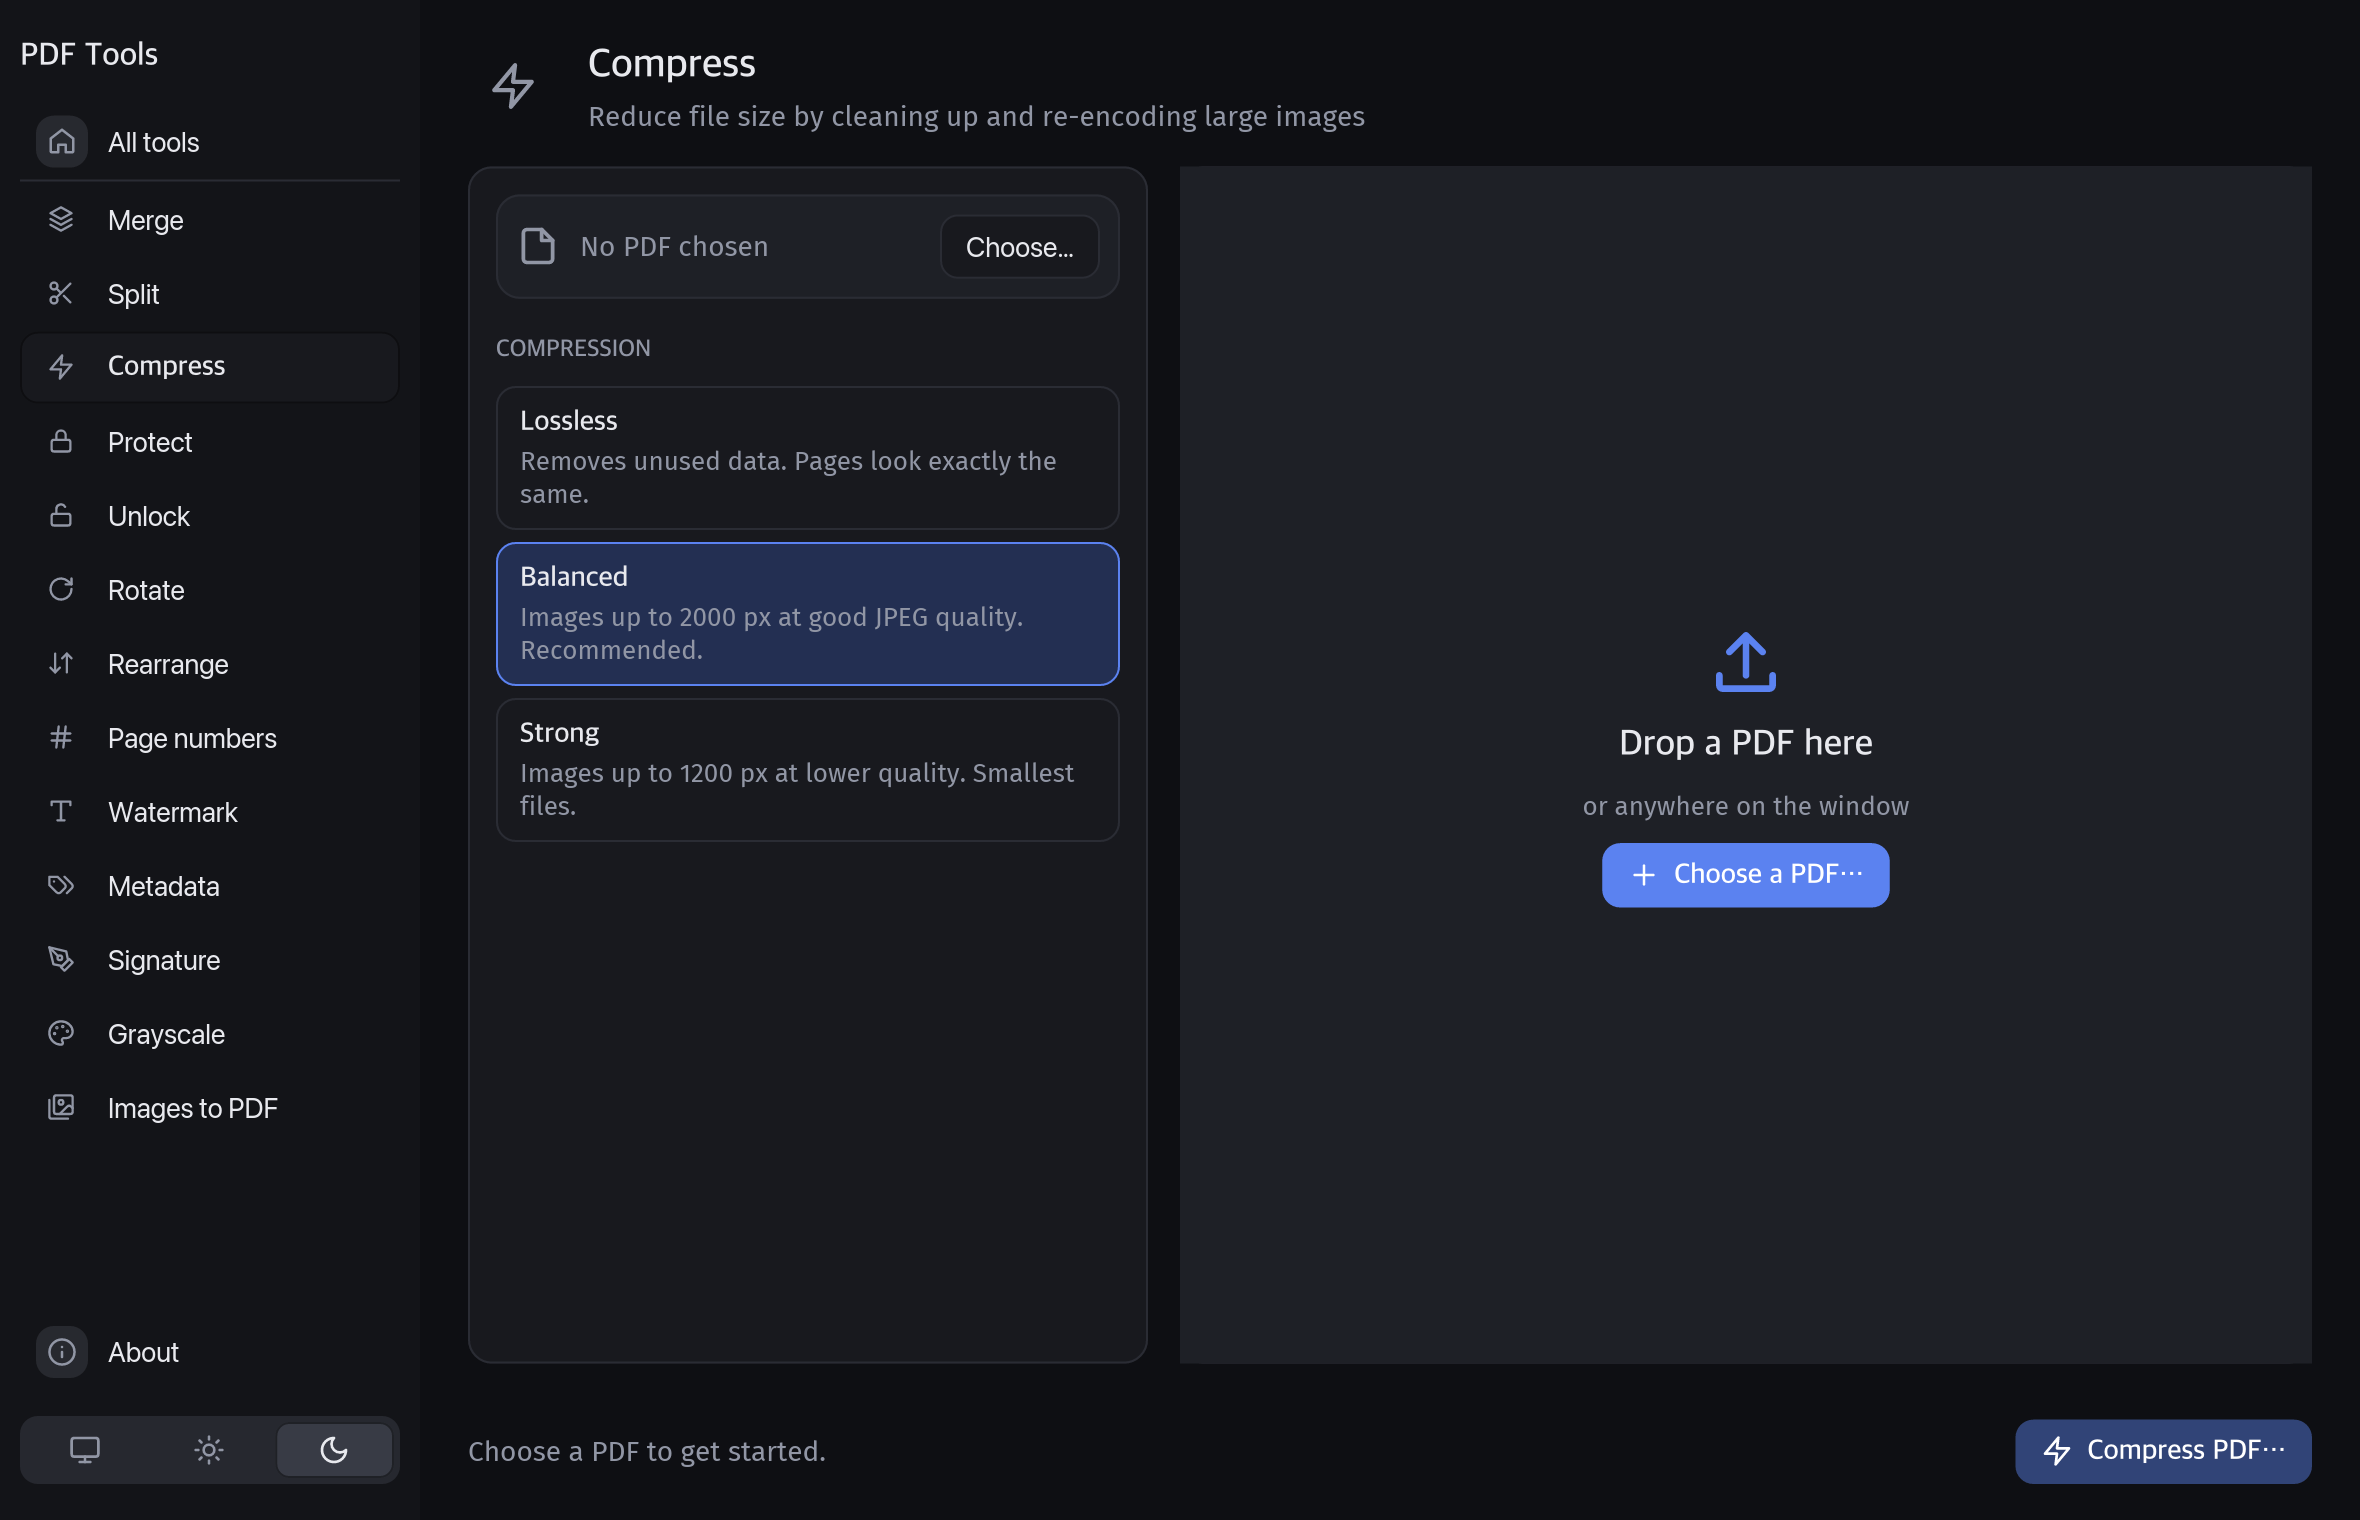
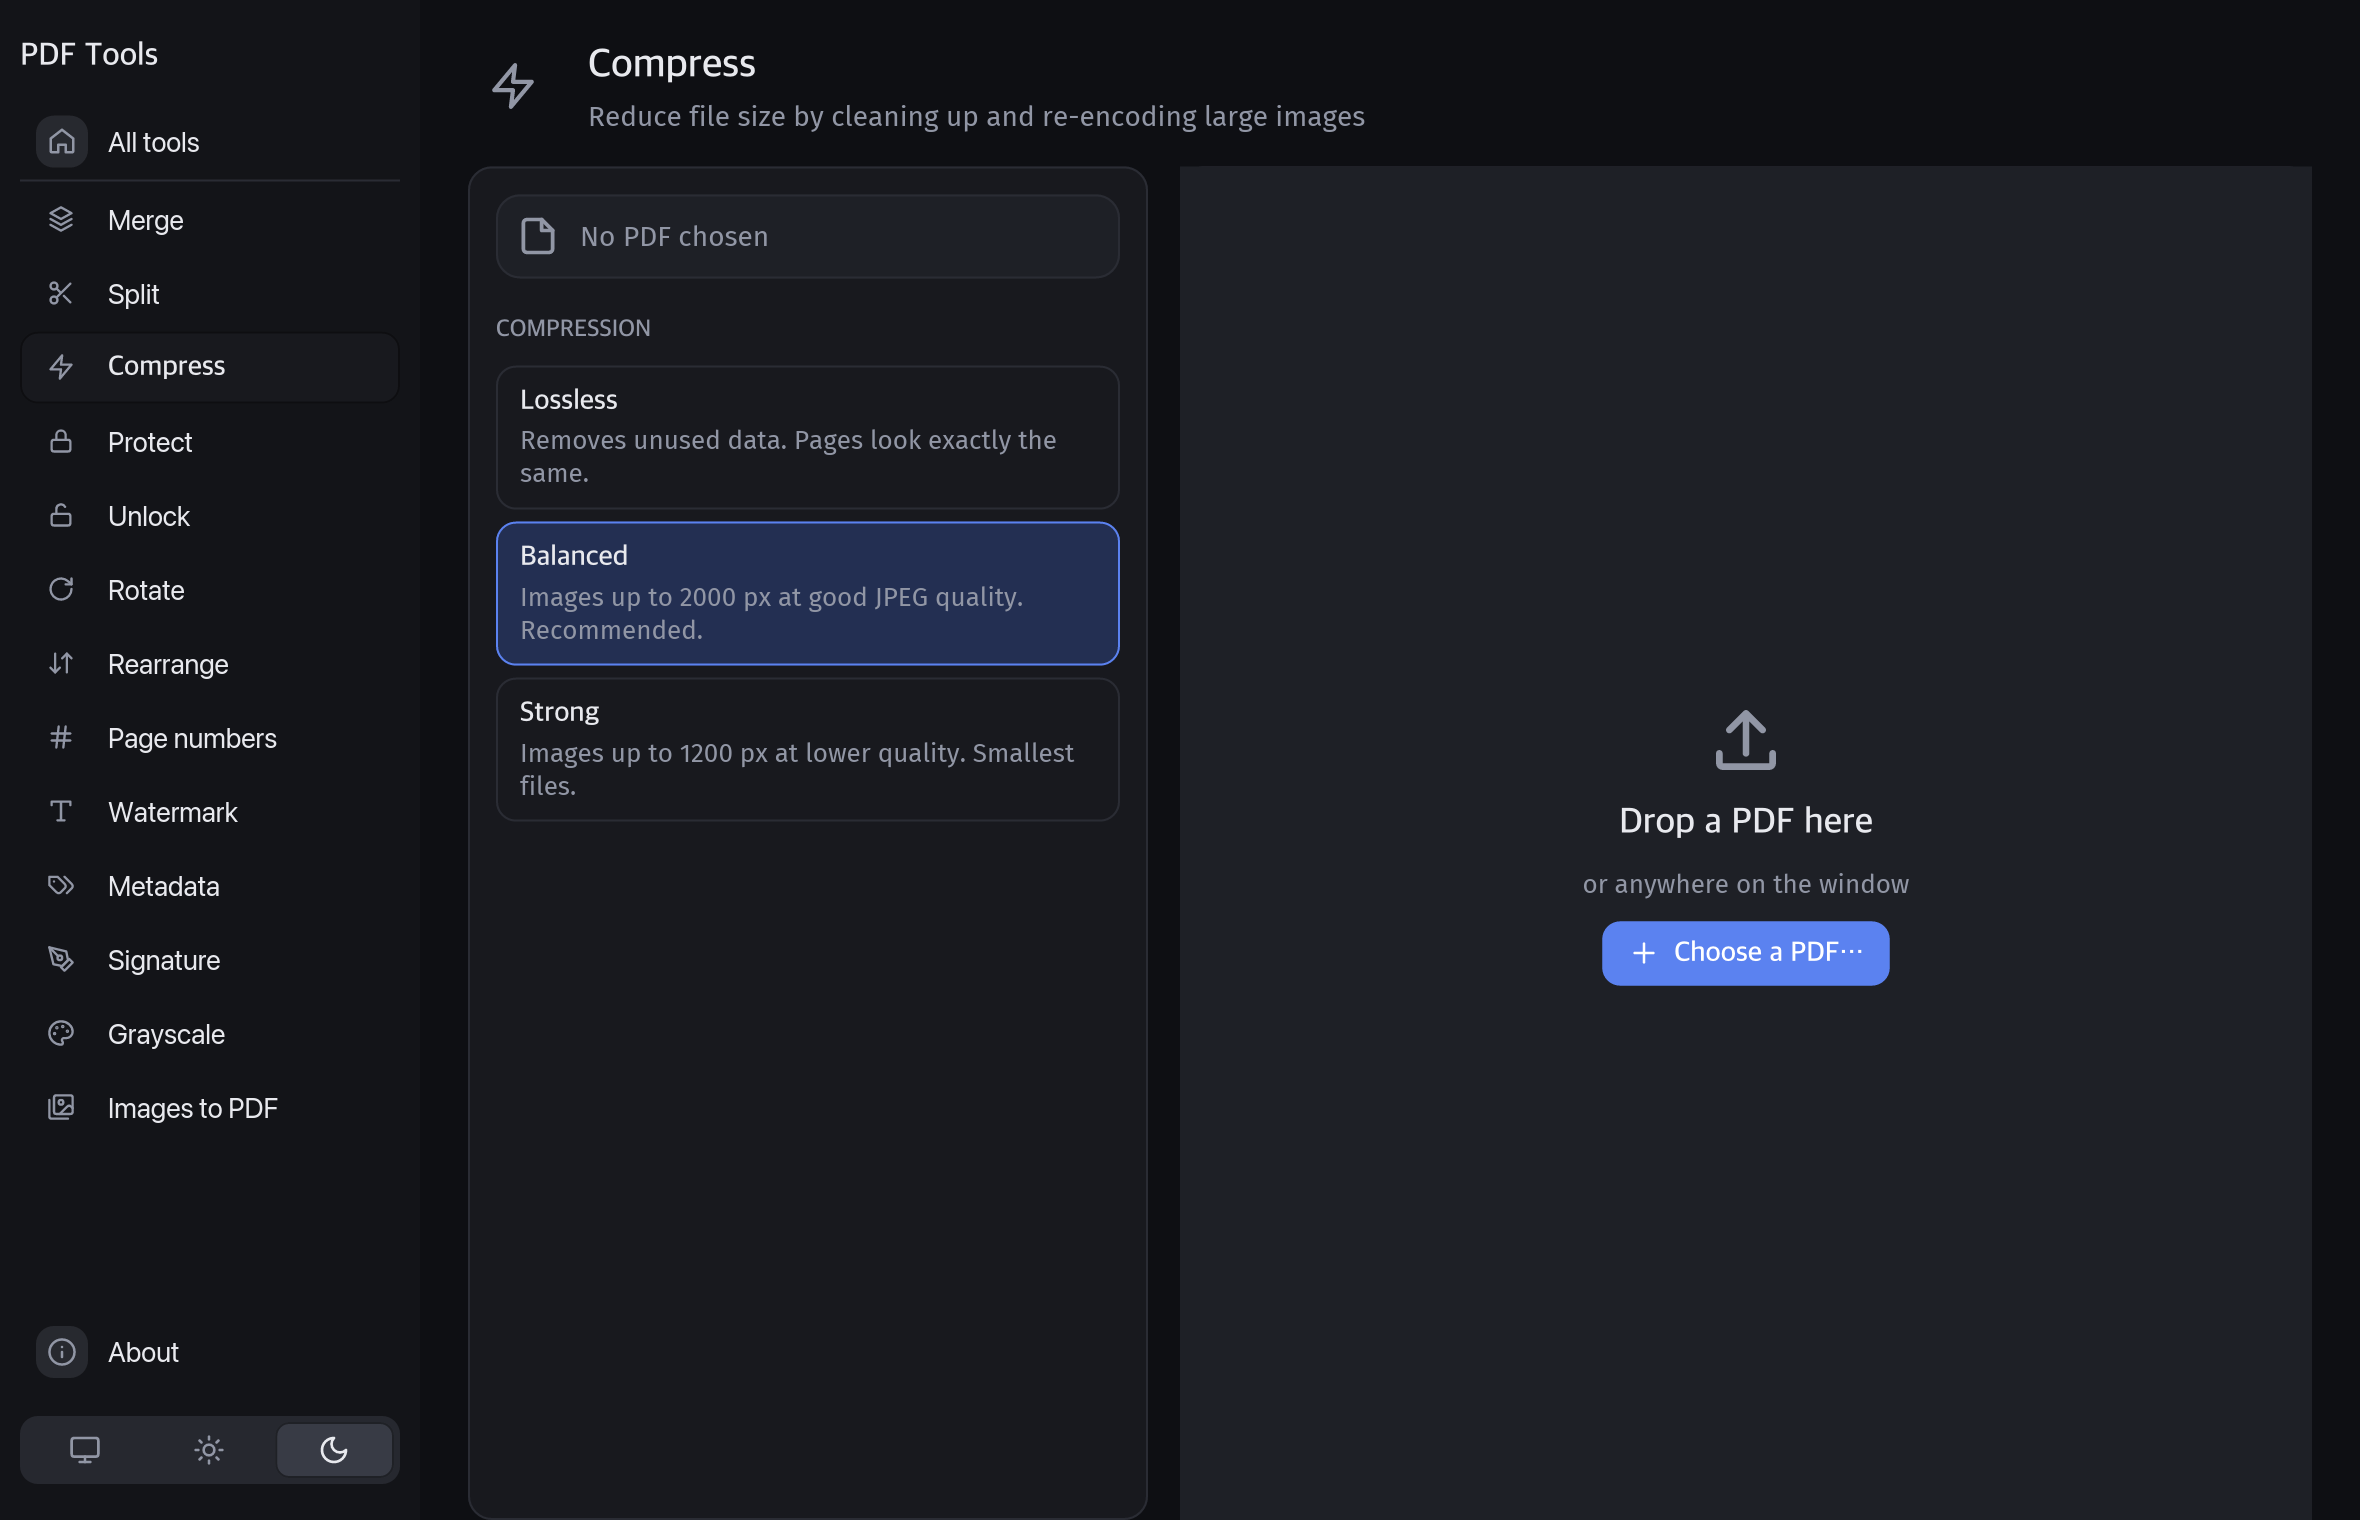
Keep one primary action in desktop empty states

diff --git a/crates/pdftools-app/src/app.rs b/crates/pdftools-app/src/app.rs
@@ -800,13 +800,14 @@ impl App {
         let right = container(right).width(Length::Fill).height(Length::Fill).style(theme::panel);
 
         let hint = single.hint(caps).or_else(|| tool.validate(single));
-        column![
+        let mut page = column![
             container(widgets::tool_header(info)).padding(Padding { top: 20.0, right: 24.0, bottom: 0.0, left: 24.0 }),
             row![left, right].spacing(16).padding(Padding { top: 0.0, right: 24.0, bottom: 0.0, left: 24.0 }).height(Length::Fill),
-            run_bar(&single.run, hint, tool.run_label(), (info.icon)(), Message::Run(id), Message::Reveal(id)),
-        ]
-        .spacing(16)
-        .into()
+        ];
+        if !matches!(single.state, FileState::Empty) {
+            page = page.push(run_bar(&single.run, hint, tool.run_label(), (info.icon)(), Message::Run(id), Message::Reveal(id)));
+        }
+        page.spacing(16).into()
     }
 
     /// Whether the viewed page is left out (`None` if the tool can't).
@@ -931,7 +932,7 @@ fn not_ported<'a>(id: ToolId) -> Element<'a, Message> {
 pub fn drop_zone<'a>(heading: &'a str, hint: &'a str, button: &'a str, on_choose: Option<Message>) -> Element<'a, Message> {
     container(
         column![
-            icon(icons::upload(), 40.0, theme::c().accent),
+            icon(icons::upload(), 40.0, theme::c().muted),
             text(heading).size(18).font(BOLD),
             muted(hint),
             action(button, Some(icons::plus()), true, on_choose),
@@ -948,13 +949,9 @@ pub fn drop_zone<'a>(heading: &'a str, hint: &'a str, button: &'a str, on_choose
 fn file_card<'a>(id: ToolId, single: &'a Single, previews: &'a Previews, busy: bool) -> Element<'a, Message> {
     match &single.state {
         FileState::Empty => container(
-            row![
-                icon(icons::file(), 22.0, theme::c().muted),
-                text("No PDF chosen").color(theme::c().muted).width(Length::Fill),
-                action("Choose…", None, false, (!busy).then_some(Message::PickFile(id))),
-            ]
-            .spacing(10)
-            .align_y(Alignment::Center),
+            row![icon(icons::file(), 22.0, theme::c().muted), text("No PDF chosen").color(theme::c().muted).width(Length::Fill),]
+                .spacing(10)
+                .align_y(Alignment::Center),
         )
         .padding(10)
         .style(|_| container::Style {

diff --git a/crates/pdftools-app/src/images.rs b/crates/pdftools-app/src/images.rs
@@ -384,13 +384,14 @@ impl Images {
         };
         let right = container(column![grid_header, body]).width(Length::Fill).height(Length::Fill).style(theme::panel);
 
-        column![
+        let mut page = column![
             container(header).padding(Padding { top: 20.0, right: 24.0, bottom: 0.0, left: 24.0 }),
             row![left, right].spacing(16).padding(Padding { top: 0.0, right: 24.0, bottom: 0.0, left: 24.0 }).height(Length::Fill),
-            run_bar(&self.run, self.validate(), "Create PDF…", icons::images(), wrap(Msg::Run), wrap(Msg::Reveal)),
-        ]
-        .spacing(16)
-        .into()
+        ];
+        if count > 0 {
+            page = page.push(run_bar(&self.run, self.validate(), "Create PDF…", icons::images(), wrap(Msg::Run), wrap(Msg::Reveal)));
+        }
+        page.spacing(16).into()
     }
 }
 

diff --git a/crates/pdftools-app/src/merge.rs b/crates/pdftools-app/src/merge.rs
@@ -407,7 +407,6 @@ impl Merge {
                 container(container(zone).style(theme::panel))
                     .padding(Padding { top: 0.0, right: 24.0, bottom: 0.0, left: 24.0 })
                     .height(Length::Fill),
-                run_bar(&self.run, self.validate(), "Merge PDFs…", icons::merge(), wrap(Msg::Run), wrap(Msg::Reveal)),
             ]
             .spacing(16)
             .into();

diff --git a/crates/pdftools-app/tests/ui.rs b/crates/pdftools-app/tests/ui.rs
@@ -147,7 +147,7 @@ fn merge_and_images() {
     let mut h = Harness::new("multi");
 
     h.click("Merge");
-    assert!(h.shows("Add PDF files to get started."));
+    assert!(h.shows("Drop PDF files here"));
     std::fs::write(h.out("notes.txt"), "text").unwrap();
     h.dialogs.open(&[&fixture("sizes.pdf"), &fixture("rotation.pdf"), &h.out("notes.txt")]);
     h.click("Add PDF files…");
